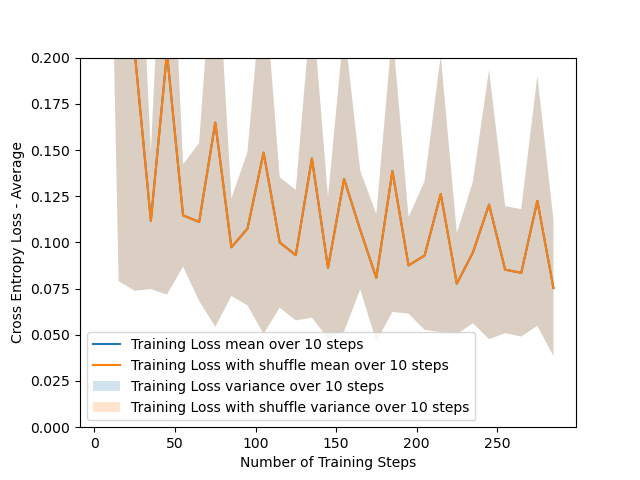
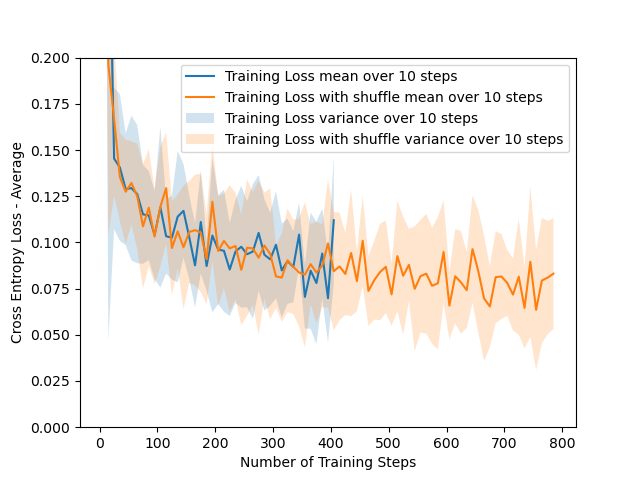
2E is done and tested
shuffled the datasets

diff --git a/assignment1/utils.py b/assignment1/utils.py
@@ -26,7 +26,10 @@ def batch_loader(
     indices = list(range(len(X)))
 
     # TODO (task 2e) implement dataset shuffling here.
-
+    if shuffle is True:
+        p = np.random.permutation(X.shape[0])
+        X = X[p]
+        Y = Y[p]
     for i in range(num_batches):
         # select a set of indices for each batch of samples
         batch_indices = indices[i*batch_size:(i+1)*batch_size]

diff --git a/assignment1/task2.py b/assignment1/task2.py
@@ -80,7 +80,7 @@ if __name__ == "__main__":
     num_epochs = 500
     learning_rate = 0.05
     batch_size = 128
-    shuffle_dataset = False
+    shuffle_dataset = True
 
     # Load dataset
     category1, category2 = 2, 3
